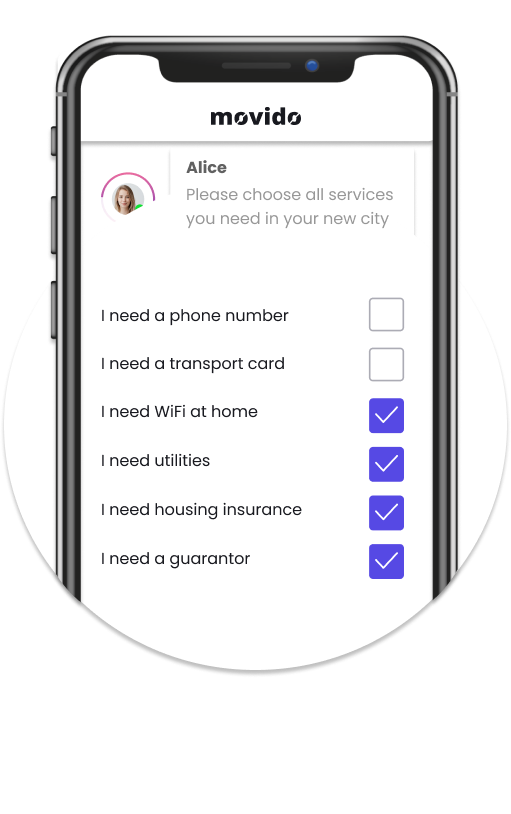
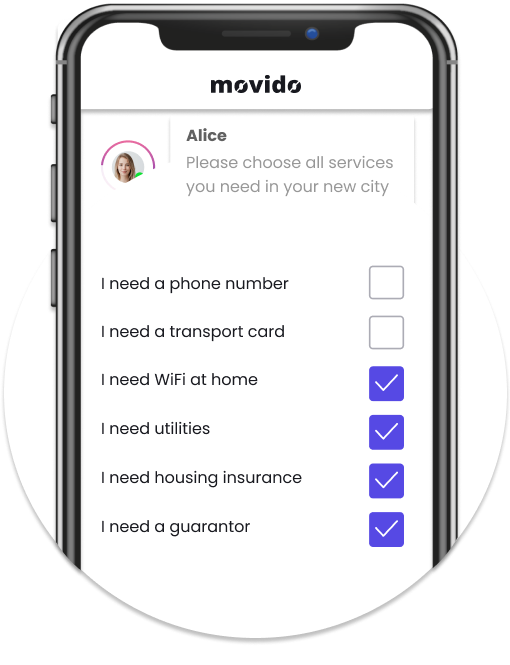
[skip travis] fix how it works images and nest pages scss

diff --git a/app/assets/stylesheets/pages/_how-it-works.scss b/app/assets/stylesheets/pages/_how-it-works.scss
@@ -1,11 +1,22 @@
-img.iphone-illustration {
-  width: 55%;
-  margin-bottom: -5rem;
+.how-it-works-container {
+  img.iphone-illustration {
+    width: 55%;
+  }
+  p.title {
+    font-size: 24px;
+    font-weight: bold;
+  }
+  p.description {
+    color: #94A2B3;
+  }
 }
-p.title {
-  font-size: 24px;
-  font-weight: bold;
-}
-p.description {
-  color: #94A2B3;
+@include media-breakpoint-down(md) {
+  .how-it-works-container {
+    img.iphone-illustration {
+      margin-bottom: 1rem;
+    }
+    p.title {
+      text-align: center;
+    }
+  }
 }

diff --git a/app/assets/stylesheets/pages/_about.scss b/app/assets/stylesheets/pages/_about.scss
@@ -1,3 +1,5 @@
-.partner {
-  width: 20%;
+.about-container {
+  .partner {
+    width: 20%;
+  }
 }
